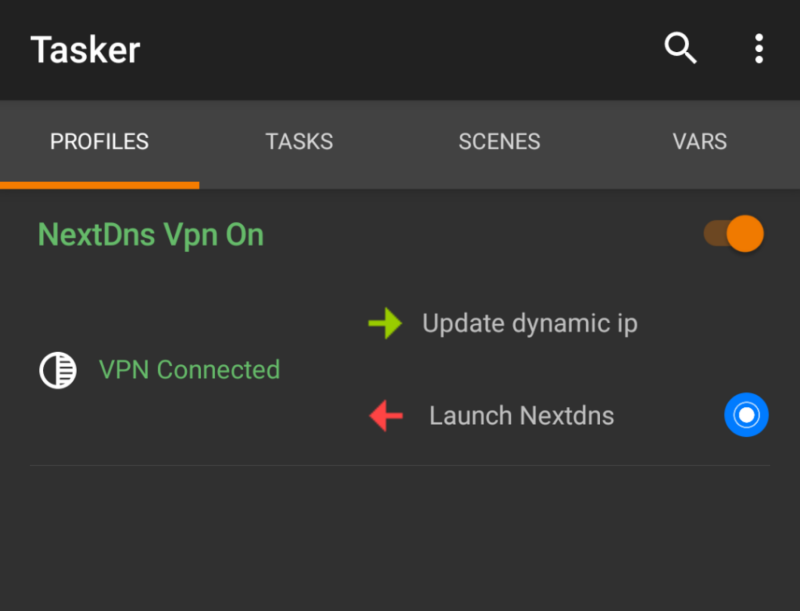
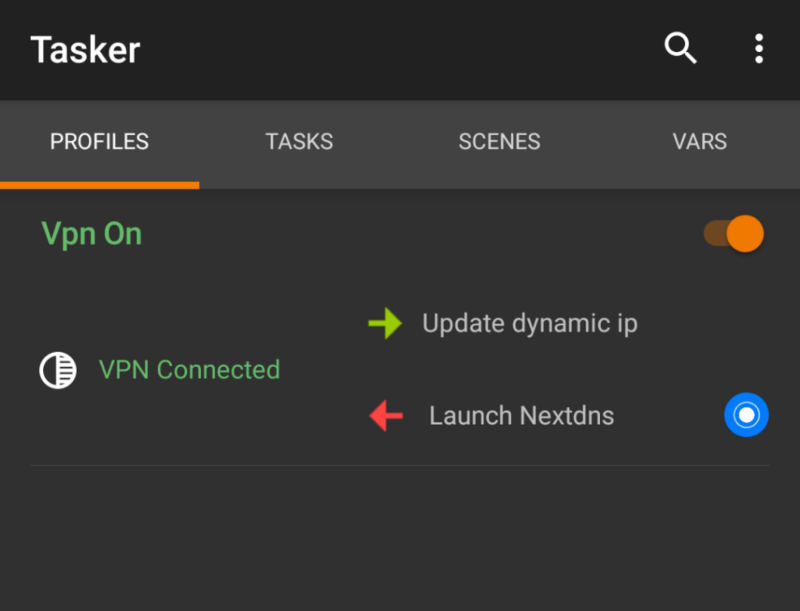
Tasker profile to launch NextDNS

Changed region(s): [[0.0312, 0.3421, 0.3438, 0.4043]]

diff --git a/_posts/2019-12-03-nextdns-with-nordvpn.md b/_posts/2019-12-03-nextdns-with-nordvpn.md
@@ -31,13 +31,13 @@ gallery5:
 
 ---
 
-I recently learned about [NextDNS](https://nextdns.io), a cloud based private DNS with privacy controls.  
+Documenting the steps I took to get NextDNS, NordVPN and restricted WiFi networks to work together.
 
-Feature-wise, it's pretty similar to [Pi-hole](https://pi-hole.net/).  The main difference is that the Pi-hole runs at home, but NextDNS is available everywhere.  This makes it pretty appealing as it allows me to carry my site blocking configuration everywhere. 
+I have been experimenting with [NextDNS](https://nextdns.io) recently, a cloud based private DNS with privacy controls.  Feature-wise, it's pretty similar to [Pi-hole](https://pi-hole.net/).  The main difference is that the Pi-hole runs at home, while NextDNS is available everywhere.  This makes it pretty appealing as it allows me to carry my site blocking configuration everywhere. 
 
-It comes with preset lists, blacklists, whitelists, analytics (graphs) and logs.  The [Linux client is open source](https://github.com/nextdns/nextdns), and the [privacy policy](https://nextdns.io/privacy) looks pretty good. The sign-up process is fast and you are given a unique configuration ID immediately.  
+It comes with preset lists, blacklists, whitelists, analytics (graphs) and logs.  The [Linux client is open source](https://github.com/nextdns/nextdns), and the [privacy policy](https://nextdns.io/privacy) looks pretty good. Where it shines is its connectivity options.  You can use DNS over TLS, DNS over HTTPS, and regular DNS.  They give clear instructions, and there are many options across OSes and browsers.
 
-Where it shines is its connectivity options.  You can use DNS over TLS, DNS over HTTPS, and regular DNS.  
+The sign-up process is fast and you are given a unique configuration ID immediately, and you can start playing with the settings right away.
 
 {% include gallery id="gallery1"  caption="NextDNS screens" %}
 
@@ -52,15 +52,15 @@ Although NordVPN comes with its own [CyberSec](https://nordvpn.com/features/cybe
 
 ## Private DNS in Android 9+
 
-The [Private DNS](https://android-developers.googleblog.com/2018/04/dns-over-tls-support-in-android-p.html) feature introduced in Android 9 allows you to set a system wide DNS.  Android will perform DNS over TLS requests against this address, and in most cases this DNS setting is applied whether you're connected to WiFi, mobile data, or VPN.  Where available, this is the most convenient way to set yourself up with NextDNS, and should work with most VPNs too.  
+The [Private DNS](https://android-developers.googleblog.com/2018/04/dns-over-tls-support-in-android-p.html) feature introduced in Android 9 allows you to set a system wide DNS, not just specific to a WiFi.  Android will perform DNS over TLS requests against this address, and in most cases this DNS setting is applied whether you're connected to WiFi, mobile data, or VPN.  Where available, this is the most convenient way to set yourself up with NextDNS, and should play nicely with NordVPN and other VPNs too.
 
 From the main settings page on your NextDNS configuration, find the DNS-over-TLS address.  
 
 {% include gallery id="gallery2"  caption="DNS over TLS on Android" %}
 
-For the most part this actually works and is a good enough default setting.
+For most scenarios and use cases, this works well enough and is a good enough default setting to stick with.
 
-### Gotcha - captive portals and corporate WiFi
+### There's a catch - captive portals and corporate WiFi
 
 Many workplaces, hotels and airports offer a guest WiFi network to connect personal devices to, and often these come with captive portals.  The trouble here is that such 'corporate' networks often block most outgoing ports, 853 included, which is what DNS-over-TLS makes use of.  When using the Private DNS feature in such a network, Android will mark the corporate WiFi with 'no internet connection'; your web browsing will fail, and you will be unable to connect to VPN.  
 
@@ -71,16 +71,16 @@ Many workplaces, hotels and airports offer a guest WiFi network to connect perso
 <i class="fas fa-times-circle"></i> Not an option on older Android devices    
 
 
-If connecting to a restricted WiFi isn't necessary for you, this is the best place to stop.  
+If connecting to a restricted WiFi isn't necessary for you, this is the best place to stop.  You're in a good position, and you can enjoy both NextDNS and NordVPN.
 
-However if you do need to work with a restricted WiFi, there are a few options to get these working together. 
+If however, you _do_ need to work with a restricted WiFi, there are a few options to get these working together. 
 
 
 ## The NextDNS app
 
-The [NextDNS app](https://play.google.com/store/apps/details?id=io.nextdns.NextDNS&hl=en_GB) on the Play Store has a unique offering - it makes DNS requests using DNS-over-HTTPS.  The advantage of DNS-over-HTTPS is that the DNS requests themselves are made over the 'common' port 443, with TLS certificates encrypting your traffic; to a network this is just normal traffic and will not often be blocked.  
+The [NextDNS app](https://play.google.com/store/apps/details?id=io.nextdns.NextDNS&hl=en_GB) on the Play Store makes DNS requests using DNS-over-HTTPS.  The advantage of DNS-over-HTTPS is that the DNS requests themselves are made over the 'common' port 443, with TLS certificates encrypting your traffic; to a network this just appears as normal traffic and will not often be blocked.  
 
-Using the app will allow you to use NextDNS while on WiFi or mobile network, but won't allow you to use an actual VPN - this is because the app sets up a local device VPN for all traffic, and it then makes requests using DNS-over-HTTPS.  Since it's a local device VPN, the battery consumption is very low.  The main setting in the app is the configuration ID of your NextDNS settings.   You can also get it to send your device model so that you can easily identify it in the logs.  
+Using their app will allow you to use NextDNS while on WiFi or mobile network, but won't allow you to use an actual VPN - this is because the app itself sets up a local device VPN for all traffic, and it then makes requests using DNS-over-HTTPS.  Since it's a local device VPN, the battery consumption is very low.  The main setting in the app is the configuration ID of your NextDNS settings.   You can also get it to send your device model so that you can easily identify it in the logs.  
 
 
 <i class="fas fa-check-circle"></i> Works with WiFi  
@@ -96,13 +96,13 @@ If however, you do need an actual VPN as well as DNS, then read on.
 
 ## NordVPN's custom DNS
 
-Now we're complicated. The NordVPN app allows setting an IP address for a DNS server that it will use when making requests.  Get this from the settings screen on NextDNS, and add it to the NordVPN setting.  
+Now we're complicated. The NordVPN app allows setting an IP address for a DNS server that it will use when making requests.  Get this from the settings screen on NextDNS, and add it to the NordVPN setting, `Custom DNS`.  Since you're connecting to a restricted WiFi, be sure to also select `Use TCP` - this makes NordVPN connect over port 443 to its servers.   
 
 {% include gallery id="gallery4"  caption="DNS in the NordVPN app" %}
 
- However, observe that the NextDNS IP address is actually common to many of its users.  NextDNS needs a way to identify your requests to that IP, among the thousands of other people using the same IP.  You can connect to the VPN, then browse to the NextDNS page and press the "Link IP" button.  It will then detect the IP you're connecting from (the NordVPN server)  and from then on any requests from your device will make use of your NextDNS configurations.
+ However, observe that the NextDNS IP address is actually common to many of its users.  NextDNS needs some way of identifying your requests to that IP, among the thousands of other people using the same IP.  Connect to the VPN, then browse to the NextDNS configuratino page and press the `Link IP` button.  It will then detect the IP you're connecting from (the NordVPN server)  and from then on any requests from your device will make use of your NextDNS configurations.
 
- But pressing the "Link IP" button is not a maintainable solution;  NextDNS provides a convenience URL that you can request - it will detect the IP and set the linked IP address on your behalf. 
+ But pressing the "Link IP" button is not a maintainable solution and is easy to forget; in the screenshot above, NextDNS provides a convenience URL that you can call - it will detect the IP you called from, and set the linked IP address on your behalf. In the example above, this is `https://link-ip.nextdns.io/924d45/0d927fe242bee36c`
 
  We need a way of invoking that URL on a regular basis.  Specifically, we need a way of invoking that URL whenever we connect to a VPN.  
 
@@ -110,7 +110,7 @@ Now we're complicated. The NordVPN app allows setting an IP address for a DNS se
 
 [Tasker](https://play.google.com/store/apps/details?id=net.dinglisch.android.taskerm&hl=en_GB) is an automation app for Android which lets you perform actions based on various conditions, events, variables.  You can create a profile that invokes an HTTP request when connecting to a VPN. 
 
-In Tasker, create a new profile, "NextDNS VPN On".    
+In Tasker, create a new profile, "VPN On".    
 Pick `State`, and in the dialog, search for `VPN Connected`  
 Leave the State as is, and press the back arrow <i class="fas fa-arrow-left"></i>  
 When prompted, create a new Task, "Update NextDNS Linked IP"  
@@ -120,25 +120,31 @@ Paste the URL from the NextDNS setting screen in the URL field
 
 
 ```
-Profile: NextDns Vpn On (2)
+Profile: Vpn On (2)
     	State: VPN Connected [ Active:Any ]
     Enter: Update dynamic ip (3)
     	A1: HTTP Request [  Method:GET URL:https://link-ip.nextdns.io/924d45/0d927fe242bee36c Headers: Query Parameters: Body: File To Send: File To Save With Output: Timeout (Seconds):30 Trust Any Certificate:Off ]
 
 ```
 
-This setup works reliably, but is only applicable to the NordVPN connection.  When you disconnect from the VPN, you'll need to find a different way of reconnecting with NextDNS.  
+This setup works reliably, but is only applicable to the NordVPN connection.  When you disconnect from the VPN, you are no longer using NextDNS, and you'll need to launch the NextDNS app and connect there.  
 
 <i class="fas fa-check-circle"></i> Works with NordVPN  
 <i class="fas fa-check-circle"></i> Works with corporate WiFi/captive portals  
+<i class="fas fa-check-circle"></i> Use the NextDNS app when not on VPN - covers wifi and mobile networks  
 <i class="fas fa-times-circle"></i> Complicated setup  
-<i class="fas fa-times-circle"></i> Use the NordVPN app for WiFi/mobile network  
 
+
+If you can stick to using NordVPN across all your wifi and mobile connections, then this is a good place to stop.  It's going to get _even more complicated_ after this.  Just stop. 
+
+If however, you are looking to automate the switch to NextDNS when NordVPN disconnects, then read on.  
 
 
 ### Launch NextDNS when VPN disconnects
 
-Tasker profiles have the concept of Exit Tasks.  In Tasker, long press the right side of the "NextDNS VPN On" profile. 
+Tasker profiles have the concept of Exit Tasks; we can get Tasker to launch NextDNS when disconnecting from NordVPN.  
+
+In Tasker, long press the right side of the "NextDNS VPN On" profile. 
 Press `Add Exit Task` and Create a New Task <i class="fas fa-plus"></i>, "Launch NextDNS"  
 Press <i class="fas fa-plus"></i> to add an Action, and search for `Launch App`   
 Find NextDNS in the list and select it, then press the back arrow <i class="fas fa-arrow-left"></i>  
@@ -146,10 +152,10 @@ Find NextDNS in the list and select it, then press the back arrow <i class="fas 
 
 {% include gallery id="gallery5" layout="half" caption="Tasker Exit Task" %}
 
-When disconnecting from NordVPN, the NextDNS app will launch and serve as a gentle reminder to connect to it.  
+When disconnecting from NordVPN, the NextDNS app should launch and serve as a gentle reminder to connect to it.  
 
-### Switch to Android's Private DNS when VPN disconnects
-
+This Tasker profile will only work on Android 9 and below.  From Android 10+, Tasker can no longer [launch activities from the background](https://developer.android.com/guide/components/activities/background-starts). 
+{: .notice--warning}
 
 
 
